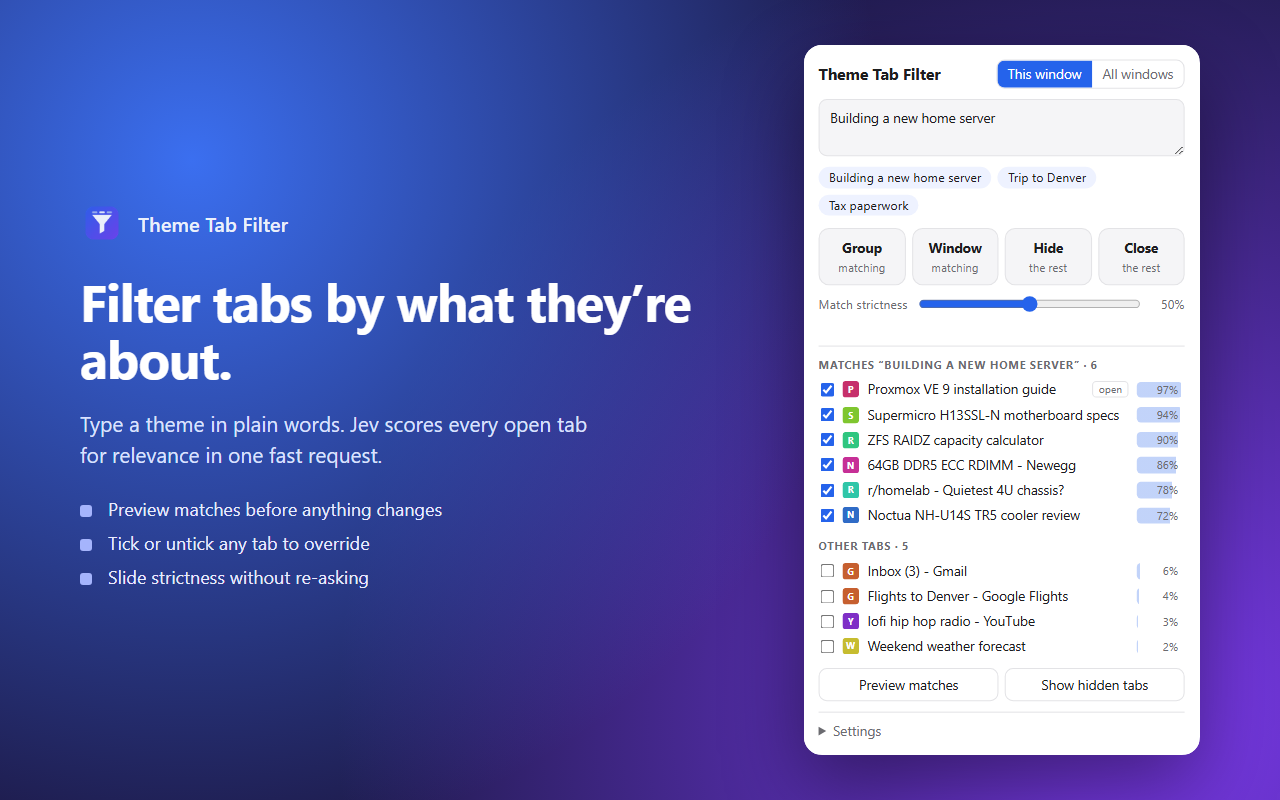
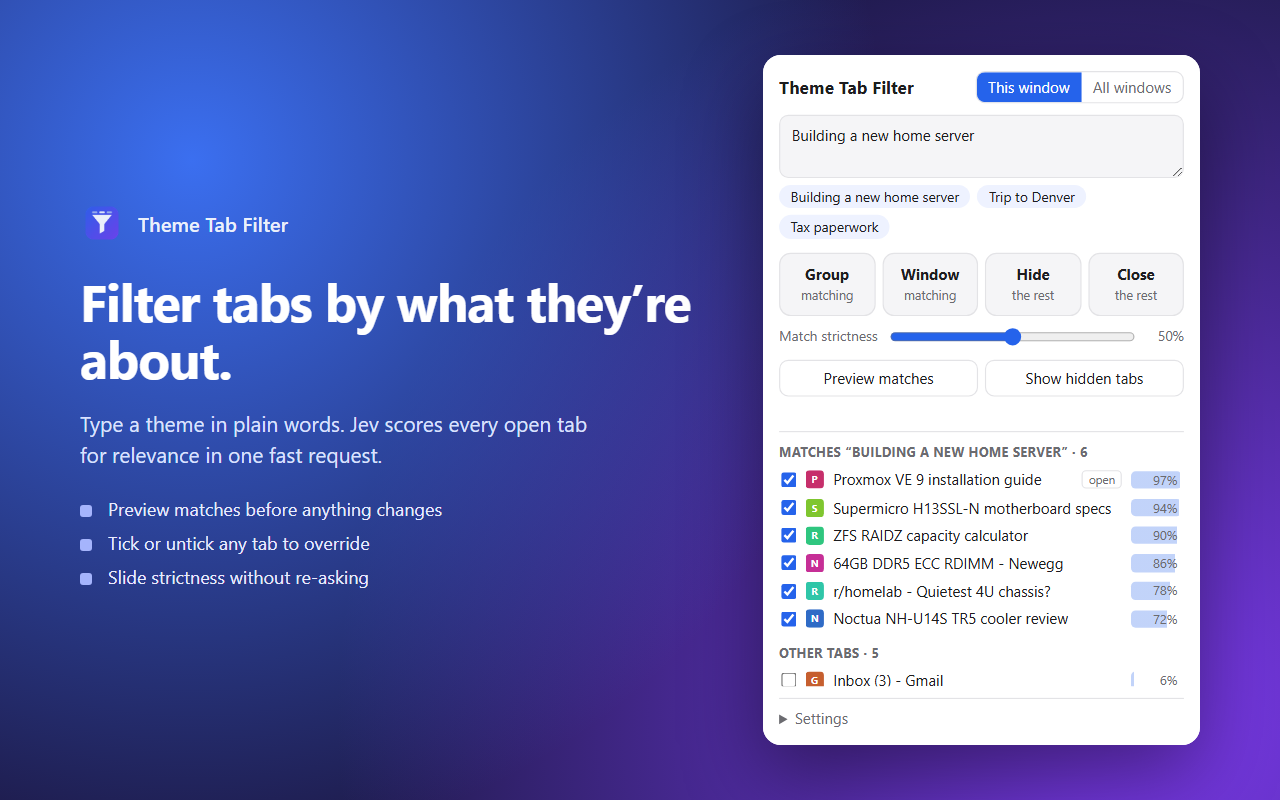
Keep popup within Chrome's 600px limit; move toolbar above list
Only the preview list scrolls now. Preview / Show hidden / Undo sit above it,
Settings stays pinned at the bottom. Screenshots re-rendered.

diff --git a/popup.html b/popup.html
@@ -2,7 +2,7 @@
 <meta charset="utf-8">
 <title>Theme Tab Filter</title>
 <style>
-  :root {
+  :root { color-scheme: light dark;
     --bg: #fff; --fg: #1d1d1f; --muted: #6b6b70; --line: #e3e3e6; --card: #f5f5f7;
     --accent: #2563eb; --accent-fg: #fff; --danger: #c62828; --warn: #8a5a00; --chip: #eef2ff;
   }
@@ -13,7 +13,9 @@
     }
   }
   * { box-sizing: border-box; }
-  body { width: 380px; margin: 0; padding: 14px; background: var(--bg); color: var(--fg); font: 13px/1.4 system-ui, sans-serif; }
+  body > * { flex: none; }
+  html, body { overflow: hidden; }
+  body { width: 380px; max-height: 600px; display: flex; flex-direction: column; margin: 0; padding: 14px; background: var(--bg); color: var(--fg); font: 13px/1.4 system-ui, sans-serif; }
   button { font: inherit; color: inherit; cursor: pointer; }
   :focus-visible { outline: 2px solid var(--accent); outline-offset: 1px; }
 
@@ -23,7 +25,7 @@
   .seg button { border: 0; background: none; color: var(--muted); padding: 4px 10px; }
   .seg button[aria-pressed=true] { background: var(--accent); color: var(--accent-fg); }
 
-  textarea { width: 100%; resize: vertical; font: inherit; padding: 8px 10px; border: 1px solid var(--line);
+  textarea { width: 100%; resize: vertical; max-height: 120px; flex: none; font: inherit; padding: 8px 10px; border: 1px solid var(--line);
     border-radius: 8px; background: var(--card); color: var(--fg); }
   .chips { display: flex; flex-wrap: wrap; gap: 6px; margin-top: 6px; }
   .chips:empty { display: none; }
@@ -48,7 +50,7 @@
   #status.error { color: var(--danger); }
   #status.warn { color: var(--warn); }
 
-  #list { max-height: 300px; overflow-y: auto; border-top: 1px solid var(--line); }
+  #list { flex: 1 1 auto; min-height: 0; overflow-y: auto; border-top: 1px solid var(--line); }
   h2 { font-size: 11px; text-transform: uppercase; letter-spacing: .04em; color: var(--muted); margin: 10px 0 4px; }
   .tab { display: flex; align-items: center; gap: 8px; padding: 3px 2px; border-radius: 6px; }
   .tab:hover { background: var(--card); }
@@ -62,9 +64,9 @@
     background: linear-gradient(to right, color-mix(in srgb, var(--accent) 28%, transparent) calc(var(--p) * 100%), transparent 0); }
   .empty { color: var(--muted); text-align: center; padding: 18px 8px; margin: 0; }
 
-  footer { display: flex; gap: 6px; margin-top: 10px; }
-  footer button { flex: 1; padding: 6px; border: 1px solid var(--line); border-radius: 8px; background: none; }
-  footer button:hover { border-color: var(--accent); }
+  .toolbar { display: flex; gap: 6px; margin-top: 10px; }
+  .toolbar button { flex: 1; padding: 6px; border: 1px solid var(--line); border-radius: 8px; background: none; }
+  .toolbar button:hover { border-color: var(--accent); }
 
   details { margin-top: 10px; border-top: 1px solid var(--line); padding-top: 8px; }
   summary { cursor: pointer; color: var(--muted); }
@@ -73,7 +75,7 @@
   details p { margin: 4px 0 8px; color: var(--muted); font-size: 12px; }
   details button { padding: 4px 10px; border: 1px solid var(--line); border-radius: 8px; background: none; }
 
-  body.busy .actions button, body.busy footer button { opacity: .5; pointer-events: none; }
+  body.busy .actions button, body.busy .toolbar button { opacity: .5; pointer-events: none; }
 </style>
 
 <header>
@@ -100,14 +102,15 @@
   <output id="thresholdOut" for="threshold"></output>
 </div>
 
-<div id="status" role="status"></div>
-<div id="list"></div>
-
-<footer>
+<div class="toolbar">
   <button id="preview">Preview matches</button>
   <button id="restore">Show hidden tabs</button>
   <button id="undo" hidden>Undo close</button>
-</footer>
+</div>
+
+<div id="status" role="status"></div>
+<div id="list"></div>
+
 
 <details id="settings">
   <summary>Settings</summary>
